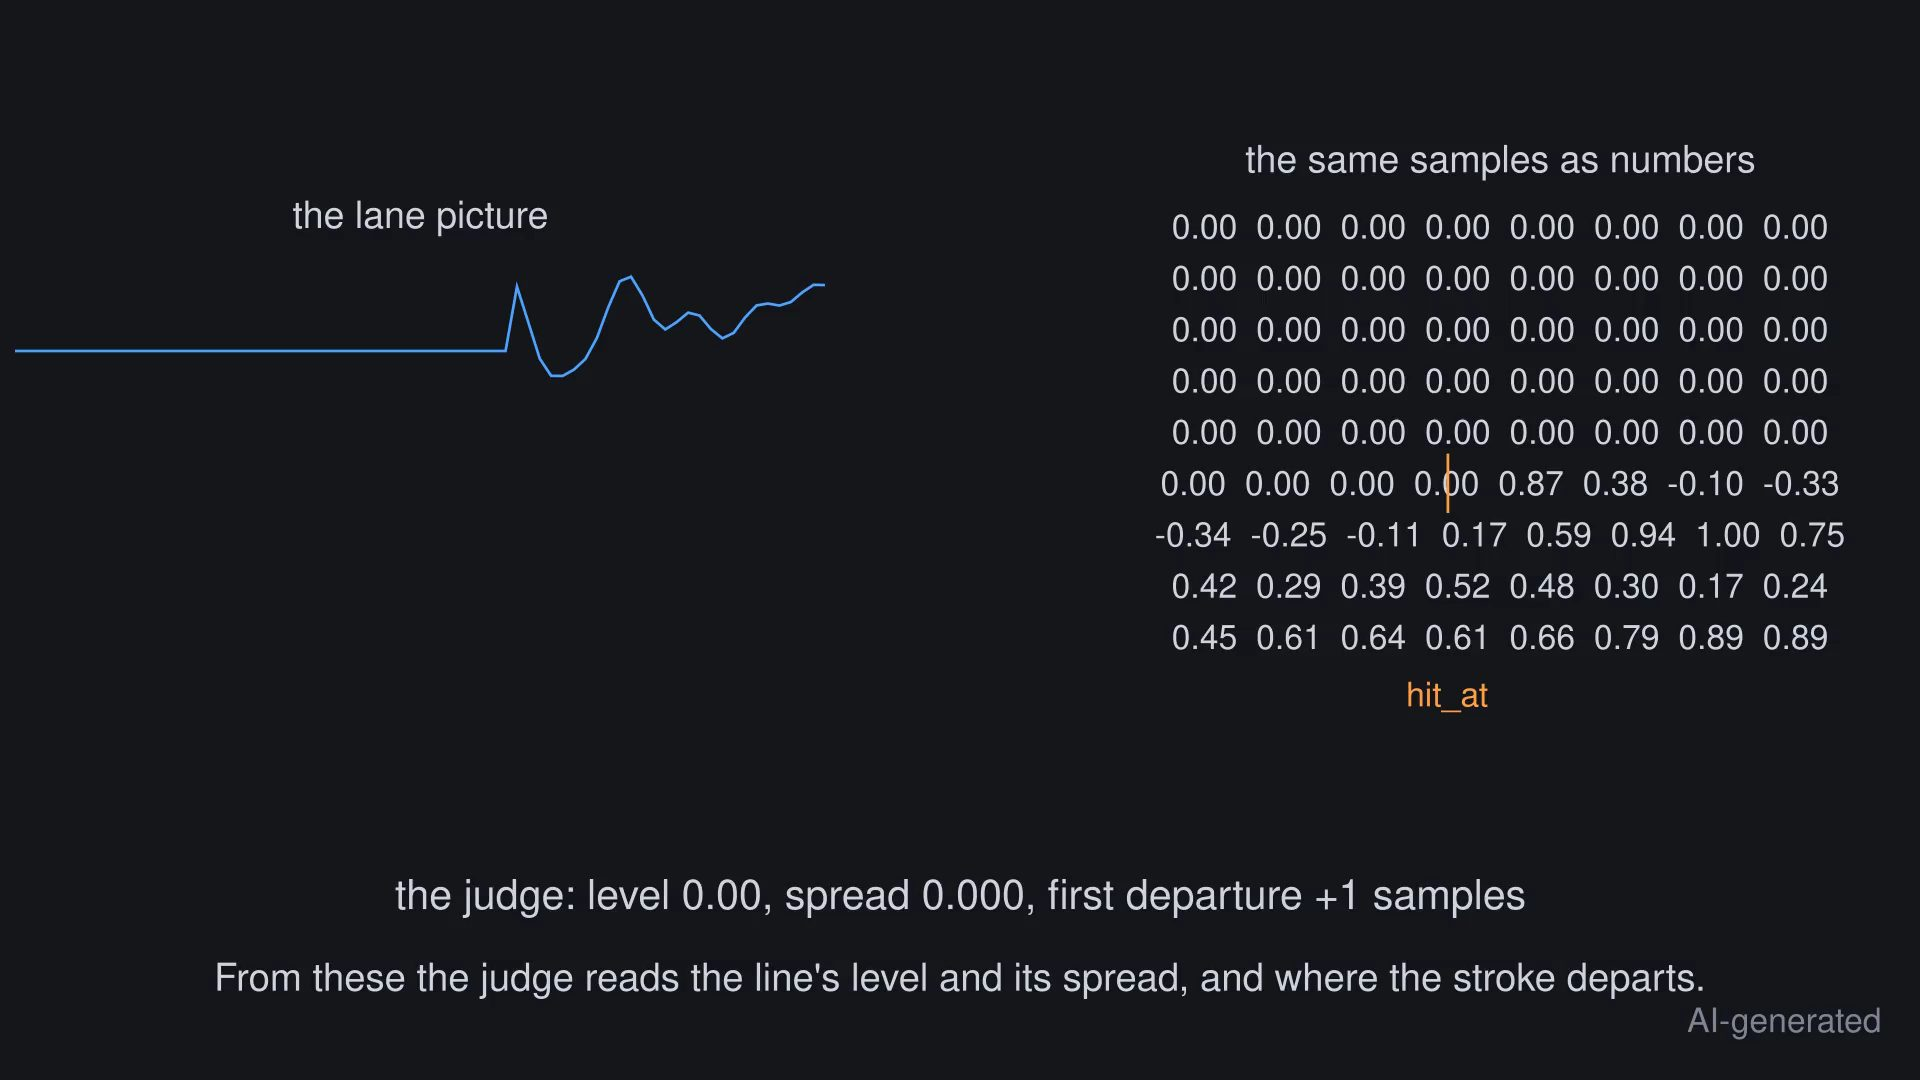
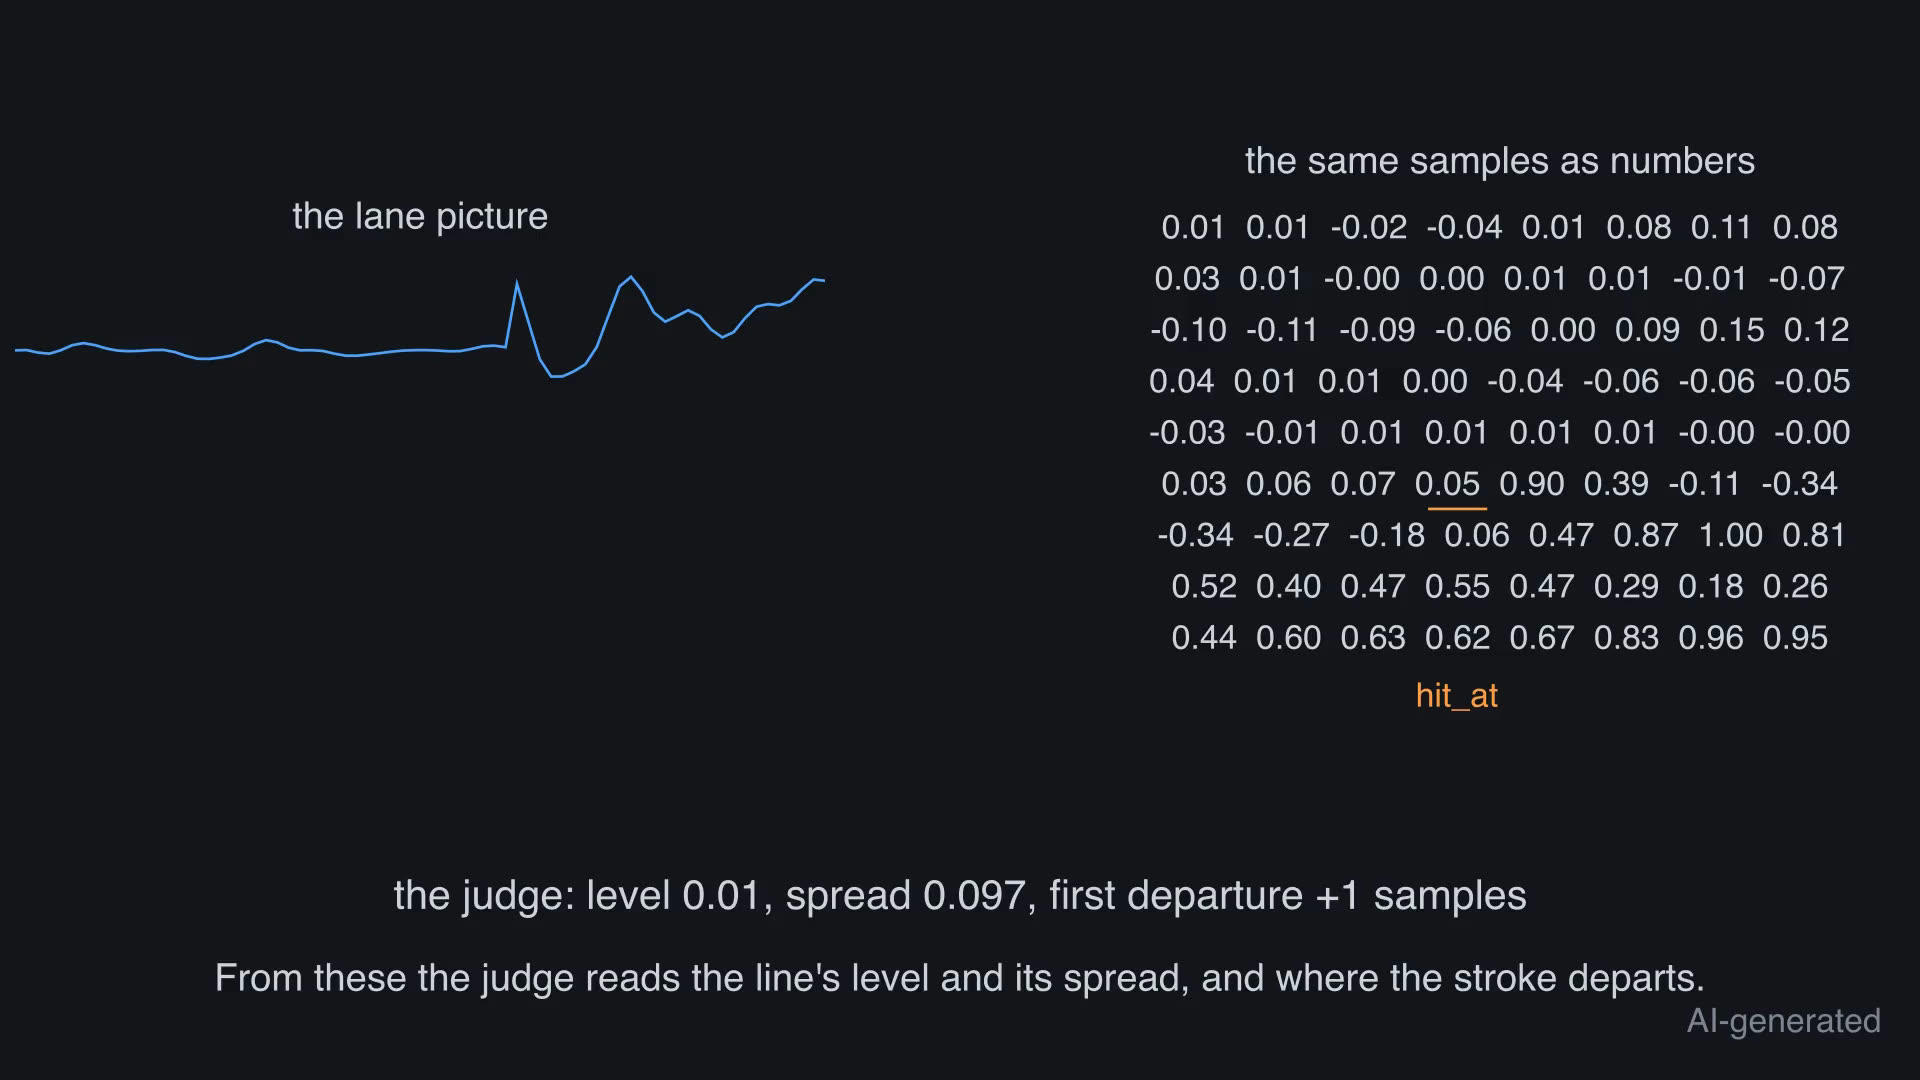
Explainer 5: text lies on the wave line in two scenes; the overlap guard checks text against lines (#498)
* Explainer 5: text lies on the wave line in two scenes; the overlap guard checks text against lines (#497)

explainer_common gets assert_no_text_on_line next to the #459 guard: a visible
stroked data line through a visible text's box is a FAIL, named with the scene
and the text. Filled-only shapes (the shaded snippet band) are no data lines,
neither are texts, and a line that only touches the box's edge is no overlap.
The guard runs on every frame of every render, like #459, and build.py's
--check-overlap plants a probe for it: a text on a line FAILs, a text beside
the line passes.

Explainer 5: the kick and snare lane names move left of the wave start at
-PLOT_W / 2 (the flat line before each hit ran through them at LEFT * 5.6),
and the quarter label moves to the right end of the band line above the last
swing (the +0.8 swing's curve ran through it next_to(band[0], UP)).

* Explainer 8: the s04-map labels move left of the map's diagonal (#497)

The full sweep's finding: the map's diagonal leaves the floor corner up-right
and ran through the '20' label there. The hit labels sit up-right of dots that
lie on the diagonal, so after the '20' move the guard named '84' next (it names
the first text per render). Every label of the scene moves to the clear up-left
side: the floor's velocity over the incoming floor segment, the hit labels by
map_xy now up and to the left of their dot.

* Explainer 9: rank labels of shared-t hits sit beside their stalks (#497)
[…]

diff --git a/tools/media/explainers/explainer_common.py b/tools/media/explainers/explainer_common.py
@@ -92,6 +92,65 @@ def assert_no_text_overlap(scene, sid=""):
                     f"{sid}: two visible texts overlap: {_label(boxes[i][0])} and {_label(boxes[j][0])}")
 
 
+# ---------------- #497: a text never lies on a drawn line ----------------
+
+class TextOnLineError(Exception):
+    """A visible stroked data line passes through the bounding box of a visible text."""
+
+
+def visible_data_lines(scene):
+    """Every visible data line of the scene: a VMobject drawn with a stroke — a wave line, a
+    threshold, a cut, a spike. Filled-only shapes (the shaded snippet band) are no lines, and
+    neither are texts: a text's glyphs are fills, and #459 owns the texts."""
+    from manim import MarkupText, Text, VMobject
+    text_parts = set()
+    for t in visible_texts(scene):
+        text_parts.update(id(sub) for sub in t.get_family())
+    out = []
+    for m in scene.mobjects:
+        for sub in m.get_family():
+            if id(sub) in text_parts or not isinstance(sub, VMobject):
+                continue
+            if getattr(sub, "stroke_width", 0) > 0 and getattr(sub, "stroke_opacity", 1) > 0 and len(sub.points):
+                out.append(sub)
+    return out
+
+
+def _segments_enter_box(ax, ay, dx, dy, x0, y0, x1, y1):
+    """Whether any of the segments A -> A + (dx, dy) enters the open box (a Liang-Barsky slab
+    test; the box is already shrunk by eps, so a line only touching an edge is no hit)."""
+    t0 = np.zeros(len(ax))
+    t1 = np.ones(len(ax))
+    dead = np.zeros(len(ax), dtype=bool)
+    for p, q in ((-dx, ax - x0), (dx, x1 - ax), (-dy, ay - y0), (dy, y1 - ay)):
+        parallel = p == 0
+        dead |= parallel & (q < 0)
+        with np.errstate(divide="ignore", invalid="ignore"):
+            t = q / p
+        t0 = np.where(~parallel & (p < 0), np.maximum(t0, t), t0)
+        t1 = np.where(~parallel & (p > 0), np.minimum(t1, t), t1)
+    return bool((~dead & (t0 <= t1)).any())
+
+
+def assert_no_text_on_line(scene, sid=""):
+    """FAIL (TextOnLineError, named with the scene and the text) when a visible data line passes
+    through the bounding box of a visible text. The box is the glyphs' axis-aligned box; a line
+    that only touches the box's edge is no overlap, like in the #459 check."""
+    from manim import DOWN, LEFT, RIGHT, UP
+    lines = visible_data_lines(scene)
+    if not lines:
+        return
+    eps = 1e-6
+    for t in visible_texts(scene):
+        x0, x1 = t.get_critical_point(LEFT)[0], t.get_critical_point(RIGHT)[0]
+        y0, y1 = t.get_critical_point(DOWN)[1], t.get_critical_point(UP)[1]
+        for line in lines:
+            pts = np.asarray(line.points, dtype=float).reshape(-1, 3)
+            if _segments_enter_box(pts[:-1, 0], pts[:-1, 1], pts[1:, 0] - pts[:-1, 0],
+                                   pts[1:, 1] - pts[:-1, 1], x0 + eps, y0 + eps, x1 - eps, y1 - eps):
+                raise TextOnLineError(f"{sid}: a data line runs through the text {_label(t)}")
+
+
 class Explainer(Scene):
     """Base of an explainer. Subclasses define a method per scene, named after its id (`s01-hook` is `s01_hook`)."""
 
@@ -114,8 +173,11 @@ class Explainer(Scene):
         self.note.add_updater(lambda m: self.guard_overlap())
 
     def guard_overlap(self):
-        """The overlap guard of this frame: OverlapError (named with the scene) on an overlap."""
-        assert_no_text_overlap(self, sid=self.sid or "scene")
+        """The overlap guards of this frame: #459 (two texts on top of each other) and #497 (a
+        text on a drawn line), each an error named with the scene."""
+        sid = self.sid or "scene"
+        assert_no_text_overlap(self, sid=sid)
+        assert_no_text_on_line(self, sid=sid)
 
     def construct(self):
         for sid in self.script_ids:

diff --git a/tools/media/explainers/build.py b/tools/media/explainers/build.py
@@ -182,7 +182,9 @@ def probe(mp4):
 
 def overlap_probes():
     """The #459 guard against a planted scene: two overlapping texts must FAIL (named with both
-    texts), the same two apart must pass, and a Text nested in a VGroup is seen. Returns 0 or 1."""
+    texts), the same two apart must pass, and a Text nested in a VGroup is seen. The #497 guard:
+    a text on a drawn line must FAIL (named with the scene and the text), the same text beside
+    the line must pass. Returns 0 or 1."""
     from types import SimpleNamespace
     import explainer_common as ec
 
@@ -204,12 +206,32 @@ def overlap_probes():
         print(f"FAIL: the guard fired on separated texts: {e}", file=sys.stderr)
         return 1
     print("overlap probe: apart texts and a nested label pass")
+
+    line = ec.Line(ec.LEFT * 3, ec.RIGHT * 3, color=ec.COBALT, stroke_width=2)
+    on_it = ec.Text("the cut sits on a zero crossing", font=ec.FONT, font_size=ec.CAPTION_SIZE)
+    on_it.move_to(ec.ORIGIN)
+    try:
+        ec.assert_no_text_on_line(SimpleNamespace(mobjects=[line, on_it]), sid="probe")
+    except ec.TextOnLineError as e:
+        print(f"line probe: the guard failed as expected: {e}")
+    else:
+        print("FAIL: the line probe did not catch a text on a line", file=sys.stderr)
+        return 1
+    aside = ec.Text("the cut sits on a zero crossing", font=ec.FONT, font_size=ec.CAPTION_SIZE)
+    aside.next_to(line, ec.UP, buff=0.5)
+    try:
+        ec.assert_no_text_on_line(SimpleNamespace(mobjects=[line, aside]), sid="probe-beside")
+    except ec.TextOnLineError as e:
+        print(f"FAIL: the guard fired on a text beside the line: {e}", file=sys.stderr)
+        return 1
+    print("line probe: a text beside the line passes")
     return 0
 
 
 def check_overlap(quality, tts_out):
-    """--check-overlap: the planted-scene probes, then every explainer through a guarded render
-    (the guard runs on every frame; an overlap FAILs the manim run). Returns 0 or 1."""
+    """--check-overlap: the planted-scene probes (#459 texts, #497 text on a line), then every
+    explainer through a guarded render (the guard runs on every frame; a violation FAILs the
+    manim run). Returns 0 or 1."""
     import explainer_common  # noqa: F401  (needs manim; fail loudly without it)
     status = overlap_probes()
     for vid in sorted(VIDEOS):
@@ -281,8 +303,8 @@ def main(argv=None):
     ap.add_argument("--quality", default="h", choices=["l", "m", "h"],
                     help="manim quality flag: h = 1080p (the release), l = 480p scratch check (default %(default)s)")
     ap.add_argument("--check-overlap", action="store_true",
-                    help="the #459 overlap guard: planted-scene probes, then every explainer "
-                         "through a guarded render (no mux, no output video)")
+                    help="the #459 text overlap guard and the #497 text-on-line guard: planted-scene "
+                         "probes, then every explainer through a guarded render (no mux, no output video)")
     args = ap.parse_args(argv)
     if args.check_overlap:
         return check_overlap(args.quality, args.tts_out)

diff --git a/tools/media/explainers/explainer_09.py b/tools/media/explainers/explainer_09.py
@@ -126,6 +126,25 @@ def label_rows(xs, gap=0.4):
     return rows
 
 
+def rank_positions(queue, dur):
+    """The (rank, track, x, y) of every rank label of the queue: under its lane's baseline, one row
+    down when two labels are close in x. When two items share a t (the same hit seen in both
+    tracks; equal to within 1e-3), the playhead's jump between them runs down that column and would
+    cross a label under the baseline, so such a label sits beside its stalk, 0.3 left of it: #497."""
+    columns = {}
+    for p in queue:
+        x = round(x_of(p["t"], dur), 3)
+        columns[x] = columns.get(x, 0) + 1
+    out = []
+    for n in TRACKS:
+        items = [(rank, p) for rank, p in enumerate(queue, start=1) if p["track"] == n]
+        items.sort(key=lambda rp: rp[1]["t"])
+        xs = [x_of(p["t"], dur) for _, p in items]
+        for (rank, p), x, row in zip(items, xs, label_rows(xs)):
+            out.append((rank, n, x - 0.3 if columns[round(x, 3)] > 1 else x, BASE[n] - 0.3 - 0.35 * row))
+    return out
+
+
 class Explainer09(Explainer):
     script_ids = ("s01-problem", "s02-confidence", "s03-queue", "s04-why", "s05-decide", "s06-result")
     # The seconds that each scene's steps take at pace 1 (the sum of its t= values). A scene whose narration is
@@ -194,14 +213,10 @@ class Explainer09(Explainer):
         return out
 
     def rank_numbers(self):
-        """The place of each doubtful hit in the queue, under its lane's baseline (rows when two are close)."""
+        """The rank labels of the queue, at rank_positions."""
         out = VGroup()
-        for n in TRACKS:
-            items = [(rank, p) for rank, p in enumerate(self.queue, start=1) if p["track"] == n]
-            items.sort(key=lambda rp: rp[1]["t"])
-            xs = [x_of(p["t"], self.dur) for _, p in items]
-            for (rank, p), x, row in zip(items, xs, label_rows(xs)):
-                out.add(Text(str(rank), font=FONT, font_size=20, color=ORANGE).move_to([x, BASE[n] - 0.3 - 0.35 * row, 0]))
+        for rank, n, x, y in rank_positions(self.queue, self.dur):
+            out.add(Text(str(rank), font=FONT, font_size=20, color=ORANGE).move_to([x, y, 0]))
         return out
 
     def playhead(self, item):

diff --git a/tools/media/explainers/explainer_15.py b/tools/media/explainers/explainer_15.py
@@ -112,9 +112,18 @@ def numbers_grid(s, hit_at, xc, yc):
     r_i, c_i = hit_at // n_cols, hit_at % n_cols
     cell = rows[0].width / n_cols   # the digits are tabular, so the cell bounds hold
     hx = rows[r_i].get_critical_point(LEFT)[0] + (c_i + 0.5) * cell
-    hit_mark = sample_stalk(hx, rows[r_i].get_center()[1], ORANGE, half=0.22, width=2)
     hit_tag = Text("hit_at", font=FONT, font_size=18, color=ORANGE)
     hit_tag.move_to([hx, grid.get_critical_point(DOWN)[1] - 0.35, 0])
+    # #497: the mark may not run through the row's digits (the guard's TextOnLineError on
+    # s03-look: the stalk at the row centre crossed the hit row's glyph box). It underlines
+    # the cell out of the inter-row gap below it, ~0.1 clear of both glyph boxes; on the
+    # last row the gap runs to the hit_at tag instead of a next row.
+    gap_top = rows[r_i].get_critical_point(DOWN)[1]
+    gap_bot = (rows[r_i + 1].get_critical_point(UP)[1] if r_i + 1 < n_rows
+               else hit_tag.get_critical_point(UP)[1])
+    ul_y = (gap_top + gap_bot) / 2
+    hit_mark = Line([hx - 0.35 * cell, ul_y, 0], [hx + 0.35 * cell, ul_y, 0],
+                    color=ORANGE, stroke_width=2)
     return grid, hit_mark, hit_tag
 
 
@@ -175,8 +184,10 @@ class Explainer15(Explainer):
             nudge_tag.move_to([(hx + last_x) / 2, HIT_Y + 0.75, 0])
             self.t_play(Create(nudge), FadeIn(nudge_tag), t=2.0)
         else:
+            # #497: the last-line stalk reaches HIT_Y + 0.9, so the tag sits above its reach;
+            # at HIT_Y + 0.75 the stalk at last_x ran straight through the text.
             nudge_tag = Text("this hit is already on the last line sample", font=FONT,
-                             font_size=22, color=ORANGE).move_to([0.0, HIT_Y + 0.75, 0])
+                             font_size=22, color=ORANGE).move_to([0.0, HIT_Y + 1.15, 0])
             self.t_play(FadeIn(nudge_tag), t=2.0)
         self.say("The nudge moves it there by whole samples.", t=2.0)
         confirm = Text("Hits > Confirm Hit: reviewed, right where it is", font=FONT,

diff --git a/tools/media/explainers/explainer_05.py b/tools/media/explainers/explainer_05.py
@@ -149,8 +149,11 @@ class Explainer05(Explainer):
                  color=DIM, stroke_width=2),
             Line([-PLOT_W / 2, -0.25 * 1.8, 0], [PLOT_W / 2, -0.25 * 1.8, 0],
                  color=DIM, stroke_width=2))
+        # at the right end of the band line, above the last swing: the 0.4 swing's peak is at
+        # 0.72 and the text's box is 0.85 up, but next_to(band[0], UP) alone sits on the +0.8
+        # swing's curve (#497)
         mark = Text("a quarter of the largest (P)", font=FONT, font_size=22,
-                    color=DIM).next_to(band[0], UP)
+                    color=DIM).next_to(band[0], UP, buff=0.4).align_to(band[0], RIGHT)
         tag = Text("illustration", font=FONT, font_size=22, color=DIM).shift(
             UP * 2.4 + LEFT * 4.6)  # top-left: clear of the '3' above the last hump
         self.t_play(Create(band), FadeIn(mark), FadeIn(tag), t=1.5)
@@ -211,9 +214,11 @@ class Explainer05(Explainer):
                             (kend - onset_k) // WHOLE_DECIMATE, 1.5, 1.1)
         sband = shaded_band(len(sr_), (S0 - onset_s) // WHOLE_DECIMATE,
                             (send - onset_s) // WHOLE_DECIMATE, -1.5, 1.1)
+        # left of the line start: the wave runs from -PLOT_W / 2 through the words at
+        # LEFT * 5.6 (#497)
         names = VGroup(
-            Text("kick", font=FONT, font_size=26, color=DIM).shift(LEFT * 5.6 + UP * 1.5),
-            Text("snare", font=FONT, font_size=26, color=DIM).shift(LEFT * 5.6 + DOWN * 1.5))
+            Text("kick", font=FONT, font_size=26, color=DIM).shift(LEFT * 6.3 + UP * 1.5),
+            Text("snare", font=FONT, font_size=26, color=DIM).shift(LEFT * 6.3 + DOWN * 1.5))
         self.t_play(Create(top), Create(bottom), FadeIn(names), t=3)
         self.t_play(FadeIn(kband), FadeIn(sband), t=2)
         self.say("Two real hits: the kick breathes longer, the snare is short and crisp.", t=3)

diff --git a/tools/media/explainers/explainer_08.py b/tools/media/explainers/explainer_08.py
@@ -49,8 +49,9 @@ def hit_labels(picks, dur):
 
 
 def map_xy(db, v):
-    """Where a dot's label sits on the s04 map: up and to the right of the dot."""
-    return x_db(db) + 0.4, y_v(v) + 0.3
+    """Where a dot's label sits on the s04 map: up and to the left of the dot. The map's
+    diagonal rises to the right through every dot, so up-right met it (#497 sweep)."""
+    return x_db(db) - 0.4, y_v(v) + 0.3
 
 
 def _boxes_meet(a, b):
@@ -191,8 +192,11 @@ class Explainer08(Explainer):
         rows = {name: {"level_db": db} for name, _, db in picks}
         mapped = dict(map_points([row["level_db"] for row in rows.values()]))
         velocities = {name: mapped[row["level_db"]] for name, row in rows.items()}
+        # the map's diagonal leaves the floor corner up-right: an up-right label met it
+        # (#497 check-overlap sweep), so the floor's velocity sits left of the corner, over
+        # the incoming floor segment
         labels = VGroup(Text("20", font=FONT, font_size=24, color=TEXT)
-                        .move_to([x_db(-40.0) + 0.4, y_v(20) + 0.3, 0]),
+                        .move_to([x_db(-40.0) - 0.4, y_v(20) + 0.3, 0]),
                         *map_labels(rows, velocities, map_xy))
         self.t_play(Create(app_map), FadeIn(axes), t=3)
         self.t_play(FadeIn(dots, labels), t=2)
